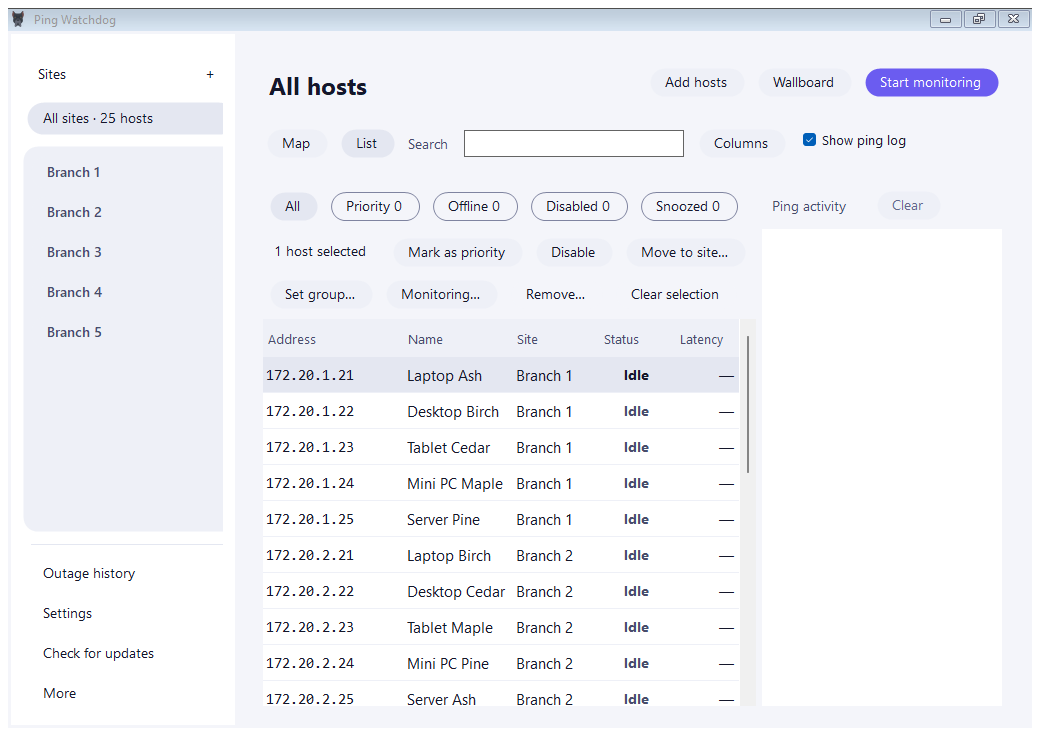
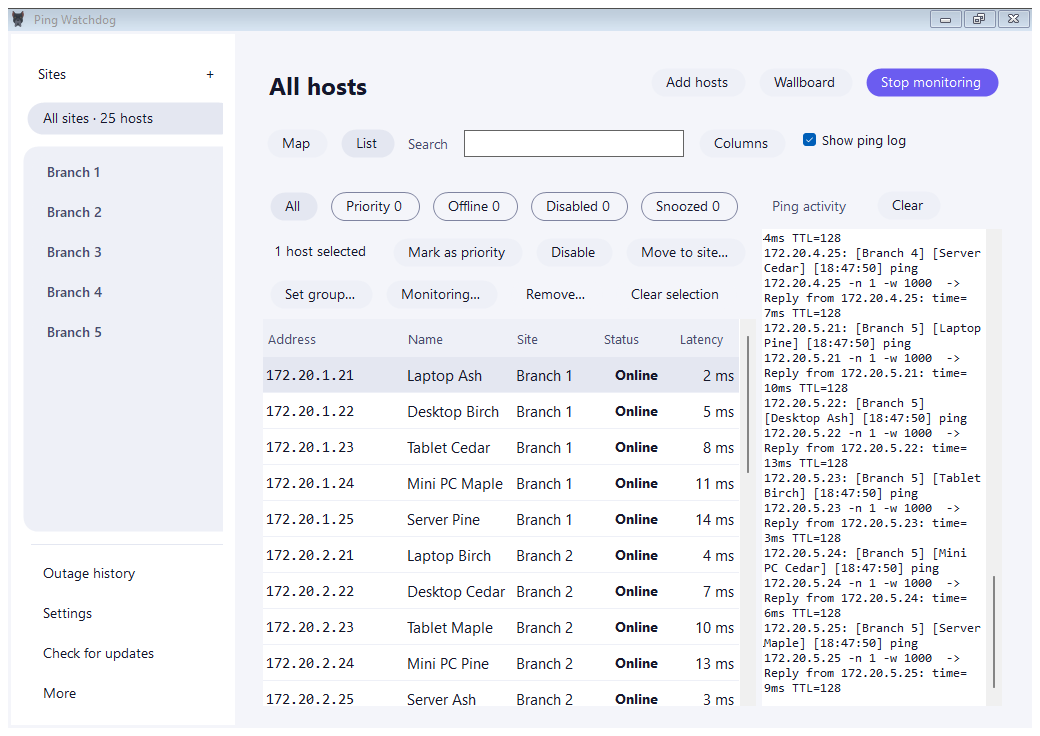
Show sample ping replies and matching online states in both screenshots

diff --git a/docs/index.html b/docs/index.html
@@ -8,8 +8,8 @@
 @media(max-width:850px){.hero .wrap,.feature,.cols{grid-template-columns:1fr}.hero .wrap{padding-block:50px}.feature figure{order:2}.hero figure,.feature figure{max-width:690px}.cols{gap:20px}.hero::after{inset:45% 0 0}.lead{max-width:48ch}}@media(max-width:520px){.navlinks a:first-child{display:none}.navlinks{gap:10px}.brand{font-size:17px}nav{min-height:64px}.hero h1{font-size:66px}.ctas{gap:14px}.wrap{padding-inline:19px}.sub{max-width:40ch}}
 </style></head><body><a class="skip" href="#main">Skip to content</a>
 <header><nav class="wrap" aria-label="Main"><a class="brand" href="#main"><img src="assets/watchdog.png" alt="">Ping Watchdog</a><div class="navlinks"><a href="#inside">Inside the app</a><a href="#downloads">Downloads ↓</a></div></nav></header>
-<main id="main"><section class="hero"><div class="wrap"><div><div class="eyebrow">Windows network monitor</div><h1>Watch<br><span>every site.</span></h1><p class="lead">See which hosts are responding, when they went down, and when they came back. All in one Windows app.</p><div class="ctas"><a class="btn" href="https://github.com/JPLuker/Ping-Watchdog/releases/latest/download/PingWatchdog-win-Setup.exe">↓ &nbsp; Download for Windows</a><a href="#downloads">Portable ZIP</a></div><p class="sub">Windows x64 · Free for personal and internal business use</p></div><figure><div class="screen"><a href="assets/map-content.svg" aria-label="Open full-size Map screenshot"><img src="assets/map-content.svg" width="1024" height="697" alt="Dark Map view with five example sites and their individual hosts"></a></div></figure></div></section>
-<section class="wrap section feature" id="inside"><figure><div class="screen"><a href="assets/list.png" aria-label="Open full-size List screenshot"><img src="assets/list.png" width="1040" height="736" loading="lazy" alt="Light List view with host addresses, status filters and actions for a selected host"></a></div></figure><div><div class="eyebrow">Inside the app</div><h2>From site to host.</h2><div class="row"><span class="num">01</span><div><h3>Find the device</h3><p>Follow a site on the map or search its hosts in List. Open Wallboard for a fullscreen view.</p></div></div><div class="row"><span class="num">02</span><div><h3>Catch the outage</h3><p>Set how many missed pings count as an outage. Mark a priority host to repeat its alarm until someone acknowledges it.</p></div></div><div class="row"><span class="num">03</span><div><h3>Trace the recovery</h3><p>Filter outage history by site and time. Export the events to CSV when you need to share what happened.</p></div></div></div></section>
+<main id="main"><section class="hero"><div class="wrap"><div><div class="eyebrow">Windows network monitor</div><h1>Watch<br><span>every site.</span></h1><p class="lead">See which hosts are responding, when they went down, and when they came back. All in one Windows app.</p><div class="ctas"><a class="btn" href="https://github.com/JPLuker/Ping-Watchdog/releases/latest/download/PingWatchdog-win-Setup.exe">↓ &nbsp; Download for Windows</a><a href="#downloads">Portable ZIP</a></div><p class="sub">Windows x64 · Free for personal and internal business use</p></div><figure><div class="screen"><a href="assets/map-content.svg" aria-label="Open full-size Map screenshot"><img src="assets/map-content.svg" width="1024" height="697" alt="Dark Map view with five example sites and a ping activity log showing sample replies"></a></div></figure></div></section>
+<section class="wrap section feature" id="inside"><figure><div class="screen"><a href="assets/list.png" aria-label="Open full-size List screenshot"><img src="assets/list.png" width="1040" height="736" loading="lazy" alt="Light List view of sample online hosts, latency and their ping replies"></a></div></figure><div><div class="eyebrow">Inside the app</div><h2>From site to host.</h2><div class="row"><span class="num">01</span><div><h3>Find the device</h3><p>Follow a site on the map or search its hosts in List. Open Wallboard for a fullscreen view.</p></div></div><div class="row"><span class="num">02</span><div><h3>Catch the outage</h3><p>Set how many missed pings count as an outage. Mark a priority host to repeat its alarm until someone acknowledges it.</p></div></div><div class="row"><span class="num">03</span><div><h3>Trace the recovery</h3><p>Filter outage history by site and time. Export the events to CSV when you need to share what happened.</p></div></div></div></section>
 <section class="download section" id="downloads"><div class="wrap cols"><div><div class="eyebrow">Downloads</div><h2>Run it on Windows.</h2><p class="copy">Both x64 packages include the runtime. Builds are unsigned. Compare your download’s SHA-256 hash with the release checksums.</p><div class="links"><a href="https://github.com/JPLuker/Ping-Watchdog/releases/latest/download/SHA256SUMS.txt">Checksums</a><a href="https://github.com/JPLuker/Ping-Watchdog/releases/latest">Release notes ↗</a></div></div><div><a class="dl" href="https://github.com/JPLuker/Ping-Watchdog/releases/latest/download/PingWatchdog-win-Setup.exe"><span><strong>Windows installer</strong><small>Run the setup file to install Ping Watchdog.</small></span><b aria-hidden="true">↓</b></a><a class="dl" href="https://github.com/JPLuker/Ping-Watchdog/releases/latest/download/PingWatchdog-win-Portable.zip"><span><strong>Portable ZIP</strong><small>Extract the folder and open PingWatchdog.exe.</small></span><b aria-hidden="true">↓</b></a></div></div></section>
 <section class="section wrap cols"><div><div class="eyebrow">Getting started</div><h2>Your first ping.</h2><details open><summary>Add a host and start monitoring</summary><ol><li>Choose <strong>Add hosts</strong> and enter an IP address or hostname.</li><li>Select a site or type a new site name. Review the preview and click <strong>Add hosts</strong>.</li><li>Click <strong>Start monitoring</strong>. Turn on <strong>Show ping log</strong> to see individual replies.</li></ol></details><details><summary>Where is my data stored?</summary><p>Inventory, settings and history are stored on your PC. Monitoring sends pings to your targets, and update checks contact GitHub. <a href="https://github.com/JPLuker/Ping-Watchdog#privacy-and-network-connections">Network and privacy details</a></p></details></div><div><div class="eyebrow">Support</div><h2>Found a problem?</h2><p class="copy">Issues are monitored on GitHub. Include the app version from Settings → About and the steps that led to the problem.</p><div class="links"><a href="https://github.com/JPLuker/Ping-Watchdog/issues/new/choose">Report an issue ↗</a><a href="https://github.com/JPLuker/Ping-Watchdog#run-your-first-monitor">User guide ↗</a></div></div></section></main>
 <footer><div class="wrap"><span>© 2026 Joseph Luker</span><div class="links"><a href="#downloads">Download</a><a href="https://github.com/JPLuker/Ping-Watchdog">GitHub</a><a href="https://github.com/JPLuker/Ping-Watchdog/issues/new/choose">Report an issue</a><a href="https://github.com/JPLuker/Ping-Watchdog/blob/main/SECURITY.md">Security</a><a href="https://github.com/JPLuker/Ping-Watchdog/blob/main/LICENSE">Proprietary license</a></div></div></footer></body></html>
